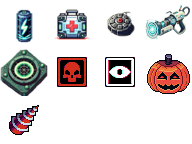
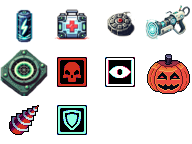
shield

Changed region(s): [[0.2812, 0.7222, 0.4688, 0.9444]]

diff --git a/src/game/scenes/main-scene/MainScene.js b/src/game/scenes/main-scene/MainScene.js
@@ -381,7 +381,10 @@ export default class MainScene extends Phaser.Scene {
 
     if (response?.player && self.allPlayers[response.player.walletAddress]) {
       if (!response.player.activeBoosts[BOOSTS.quad_damage.type]) {
-        self.allPlayers[response.player.walletAddress].hideQuadDamageBoost();
+        self.allPlayers[response.player.walletAddress].boosts.hideQuadDamageBoost();
+      }
+      if (!response.player.activeBoosts[BOOSTS.shield.type]) {
+        self.allPlayers[response.player.walletAddress].boosts.hideShieldBoost();
       }
     }
 
@@ -541,7 +544,7 @@ export default class MainScene extends Phaser.Scene {
       case Const.Command.picked:
         {
           if (picked) {
-            self.allPlayers[response.player.walletAddress].activeBoosts = response.player.activeBoosts;
+            self.allPlayers[response.player.walletAddress].boosts.active = response.player.activeBoosts;
             const { x, y } = response?.picked?.prevPos || response.player?.pos;
             self.gameObjectsLayer?.removeTileAt(x, y);
             const spriteToHide = self.gameObjectsSprites[y]?.[x];
@@ -551,6 +554,8 @@ export default class MainScene extends Phaser.Scene {
             if (self.mainPlayer?.walletAddress === response.player.walletAddress) {
               if (picked.type == GameObject.quad_damage.type) {
                 self.quadDamage.play();
+              } else if (picked.type == GameObject.shield.type) {
+                self.shieldSound.play();
               } else if (picked.type !== GameObject.hazard.type) {
                 self.pickUpSound.play();
               }
@@ -586,7 +591,11 @@ export default class MainScene extends Phaser.Scene {
             }
 
             if (response.player.activeBoosts[BOOSTS.quad_damage.type]) {
-              self.allPlayers[response.player.walletAddress].showQuadDamageBoost();
+              self.allPlayers[response.player.walletAddress].boosts.showQuadDamageBoost();
+            }
+
+            if (response.player.activeBoosts[BOOSTS.shield.type]) {
+              self.allPlayers[response.player.walletAddress].boosts.showShieldBoost();
             }
 
             if (response.player.onGameTreasure?.tile > 0) {

diff --git a/src/game/objects/Player.js b/src/game/objects/Player.js
@@ -1,6 +1,7 @@
 import Const, { BEAVER_TYPES, BOOSTS, GAMEPLAY_MODES, PLAYER_DEPTH } from '../common/const.mjs';
 import { convertToCamelCase, trimString } from '../utils/utils.js';
 import Phaser from 'phaser';
+import { Boosts } from './Boosts.js';
 
 const RANKING_TO_TEXTURE = {
   1: 'medal_gold',
@@ -19,7 +20,6 @@ export default class Player extends Phaser.Physics.Arcade.Sprite {
     this.equipment = equipment;
     this.animated = animated;
     this.locked = false;
-    this.quadDamageFx = null;
     scene.add.existing(this);
     this.initInputKeys();
     this.onGameObject = null;
@@ -41,6 +41,7 @@ export default class Player extends Phaser.Physics.Arcade.Sprite {
     this.name.setDepth(this.depth + 20);
     this.additionalElements.push(this.position, this.healthBar, this.apBar, this.name);
     this.addLayeredSprites();
+    this.boosts = new Boosts(this);
   }
 
   addLayeredSprites() {
@@ -72,32 +73,6 @@ export default class Player extends Phaser.Physics.Arcade.Sprite {
     this.healthBar.setSize(this.calculateBarWidth(newStats.hp), 6);
     this.apBar.setSize(this.calculateBarWidth(newStats.ap), 6);
     this.stats = newStats;
-  }
-
-  showQuadDamageBoost() {
-    if (this.quadDamageFx === null) {
-      this.quadDamageFx = this.postFX.addGlow(0xff0000, 2, 0, false, 0.1, 16);
-
-      this.quadDamageTween = this.scene.tweens.add({
-        targets: this.quadDamageFx,
-        outerStrength: 8,
-        yoyo: true,
-        loop: -1,
-        ease: 'sine.inout',
-      });
-    }
-  }
-
-  hideQuadDamageBoost() {
-    if (this.quadDamageFx !== null) {
-      if (this.activeBoosts) {
-        delete this.activeBoosts[BOOSTS.quad_damage.type];
-      }
-      this.quadDamageTween.remove();
-      this.quadDamageTween = null;
-      this.quadDamageFx = null;
-      this.postFX.clear();
-    }
   }
 
   updatePlayerPosition() {
@@ -160,7 +135,7 @@ export default class Player extends Phaser.Physics.Arcade.Sprite {
     this.lock();
     this.apBar.setVisible(false);
     this.healthBar.setVisible(false);
-    this.hideQuadDamageBoost();
+    this.boosts.hideQuadDamageBoost();
   }
 
   lock() {

diff --git a/src/game/objects/Boosts.js b/src/game/objects/Boosts.js
@@ -1,0 +1,94 @@
+import { BOOSTS } from '../common/const.mjs';
+
+export class Boosts {
+  active;
+  constructor(player) {
+    this.player = player;
+    this.quadDamageFx = null;
+    this.shieldFx = null;
+  }
+
+  playQuadDamageSound(mainScene) {
+    if (this.active?.[BOOSTS.quad_damage.type]) {
+      mainScene.shotBuzz.play();
+    }
+  }
+
+  playShieldSound(mainScene) {
+    if (this.active?.[BOOSTS.shield.type]) {
+      mainScene.shieldSound.play();
+    }
+  }
+
+  showQuadDamageBoost() {
+    if (this.quadDamageFx === null) {
+      this.quadDamageFx = this.player.postFX.addGlow(
+        0xff0000,
+        this.shieldFx ? 5 : 2,
+        0,
+        false,
+        0.1,
+        this.shieldFx ? 32 : 16
+      );
+    }
+  }
+
+  animateQuadDamageBoost() {
+    if (this.quadDamageFx) {
+      this.quadDamageTween = this.player.scene.tweens.add({
+        targets: this.quadDamageFx,
+        outerStrength: 12,
+        yoyo: true,
+        ease: 'sine.inout',
+      });
+    }
+  }
+
+  hideQuadDamageBoost() {
+    if (this.quadDamageFx !== null) {
+      if (this.active) {
+        delete this.active[BOOSTS.quad_damage.type];
+      }
+      this.quadDamageTween.remove();
+      this.quadDamageTween = null;
+      this.quadDamageFx = null;
+      this.player.postFX.clear();
+    }
+  }
+
+  showShieldBoost() {
+    if (this.shieldFx === null) {
+      this.shieldFx = this.player.postFX.addGlow(
+        0x00ffff,
+        this.shieldFx ? 5 : 2,
+        0,
+        false,
+        0.1,
+        this.shieldFx ? 32 : 16
+      );
+    }
+  }
+
+  animateShieldBoost() {
+    if (this.shieldFx) {
+      this.shieldTween = this.player.scene.tweens.add({
+        targets: this.shieldFx,
+        outerStrength: 12,
+        yoyo: true,
+        ease: 'sine.inout',
+      });
+    }
+  }
+
+  hideShieldBoost() {
+    if (this.shieldFx !== null) {
+      if (this.active) {
+        delete this.active[BOOSTS.shield.type];
+      }
+      this.shieldTween.remove();
+      this.shieldTween = null;
+      this.shieldFx = null;
+      this.player.postFX.clear();
+    }
+  }
+}

diff --git a/src/game/scenes/main-scene/commands/attacked.js b/src/game/scenes/main-scene/commands/attacked.js
@@ -19,15 +19,22 @@ export function handleAttacked(response, mainScene) {
     mainScene.allPlayers[response.player.walletAddress]?.attackAnim();
   }
   const opponent = mainScene.allPlayers[response.opponent?.walletAddress];
+  opponent.boosts.animateShieldBoost();
   const killer = mainScene.allPlayers[response.player?.walletAddress];
+  killer.boosts.animateQuadDamageBoost();
+  if (isKillerMainPlayer || isOpponentMainPlayer) {
+    killer.boosts.playQuadDamageSound(mainScene);
+    opponent.boosts.playShieldSound(mainScene);
+  }
   if (response.opponentFinished) {
     opponent?.lock();
-    opponent.hideQuadDamageBoost();
+    opponent.boosts.hideQuadDamageBoost();
+    opponent.boosts.hideShieldBoost();
     if (isKillerMainPlayer) {
       setTimeout(() => {
         doPlayOpponentFinishedSound(response.player, response.revenge, mainScene);
       }, 900);
-    } else {
+    } else if (isOpponentMainPlayer) {
       if (!mainScene.beaverEliminatedSound.isPlaying) {
         mainScene.beaverEliminatedSound.play();
       }

diff --git a/src/game/objects/MainPlayer.js b/src/game/objects/MainPlayer.js
@@ -166,11 +166,6 @@ export default class MainPlayer extends Player {
       if (!this.stats.previousAttackTs || now - this.stats.previousAttackTs > this.stats.weapon.attack_recovery_ms) {
         await this.send({ cmd: attack, dir });
         doPlayAttackSound(this.beaverChoice, this.scene);
-        if (this.mainScene.mainPlayer.activeBoosts) {
-          if (this.mainScene.mainPlayer.activeBoosts[BOOSTS.quad_damage.type]) {
-            this.mainScene.shotBuzz.play();
-          }
-        }
         this.attackAnim();
       }
       if (dir == left) {

diff --git a/src/game/scenes/main-scene/sounds.js b/src/game/scenes/main-scene/sounds.js
@@ -38,6 +38,7 @@ export function doAddSounds(mainScene) {
   mainScene.backgroundMusicHaunted_1 = mainScene.sound.add('background_music_haunted_1', { loop: true, volume: 0.25 });
   mainScene.backgroundMusicHaunted_2 = mainScene.sound.add('background_music_haunted_2', { loop: true, volume: 0.25 });
   mainScene.drillSound = mainScene.sound.add('drill', { loop: false, volume: 0.5 });
+  mainScene.shieldSound = mainScene.sound.add('shield', { loop: false, volume: 2.0 });
 
   forDeathSounds((k, i) => addDeathSound(k, i));
 

diff --git a/src/game/scenes/main-scene/preload.js b/src/game/scenes/main-scene/preload.js
@@ -88,6 +88,7 @@ export function doPreloadAssets(mainScene) {
   mainScene.load.audio('background_music_haunted_1', ['assets/audio/background_music_haunted_1.mp3']);
   mainScene.load.audio('background_music_haunted_2', ['assets/audio/background_music_haunted_2.mp3']);
   mainScene.load.audio('drill', ['assets/audio/drill.mp3']);
+  mainScene.load.audio('shield', ['assets/audio/shield.mp3']);
   forDeathSounds((k, i) => loadDeathSound(k, i));
 
   function loadDeathSound(k, i) {

diff --git a/src/game/scenes/main-scene/maps.js b/src/game/scenes/main-scene/maps.js
@@ -18,6 +18,7 @@ const gameObjectsToAdd = {
   [GameObject.show_map.type]: { x: 96, y: 48 },
   [GameObject.hazard.type]: { x: 144, y: 48 },
   [GameObject.drill.type]: { x: 0, y: 96 },
+  [GameObject.shield.type]: { x: 48, y: 96 },
 };
 
 export function doCreateTileMap(mainScene) {

diff --git a/src/game/process/cmd/__init.js b/src/game/process/cmd/__init.js
@@ -48,6 +48,7 @@ function initState(message, state) {
       GameObject.show_map,
       GameObject.hazard,
       GameObject.drill,
+      GameObject.shield,
       GameObject.none,
     ],
     gameHiddenObjects: Array(mapHeight)
